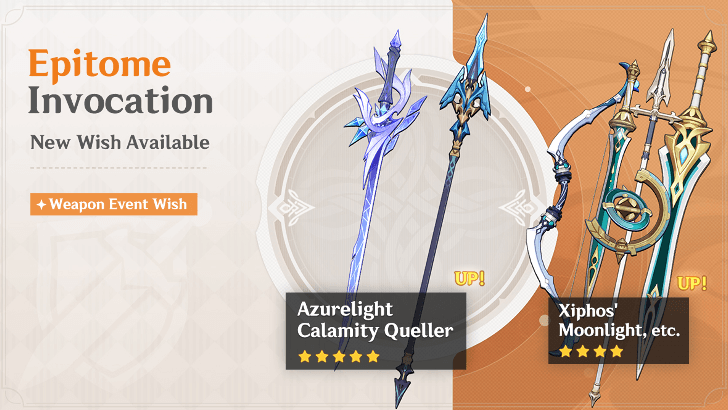
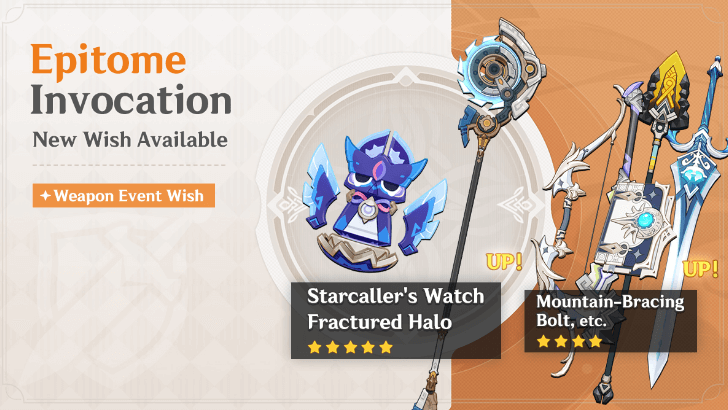
GI 5.8 update Phase 1

diff --git a/GenshinWishCounter1.5/Service/DatabaseService.cs b/GenshinWishCounter1.5/Service/DatabaseService.cs
@@ -11,6 +11,7 @@ namespace GenshinWishCounter1._5.Service
 
         private readonly List<FiveStarModel> GenshinCharacterList =
             [
+            new FiveStarModel{ Name = "Ineffa", Type = CategoryStrings.Electro, IsStandard =  false },
             new FiveStarModel{ Name = "Skirk", Type = CategoryStrings.Cryo, IsStandard =  false },
             new FiveStarModel{ Name = "Albedo", Type = CategoryStrings.Geo, IsStandard =  false },
             new FiveStarModel{ Name = "Alhaitham", Type = CategoryStrings.Dendro, IsStandard =  false },
@@ -67,6 +68,7 @@ namespace GenshinWishCounter1._5.Service
             ];
         private readonly List<FiveStarModel> GenshinWeaponList =
         [
+            new FiveStarModel{ Name = "Fractured Halo", Type = CategoryStrings.Polearm, IsStandard = false},
             new FiveStarModel{ Name = "Azurelight", Type = CategoryStrings.Sword, IsStandard = false},
             new FiveStarModel{ Name = "A Thousand Blazing Suns", Type = CategoryStrings.Claymore, IsStandard = false},
             new FiveStarModel{ Name = "A Thousand Floating Dreams", Type = CategoryStrings.Catalyst, IsStandard = false},
